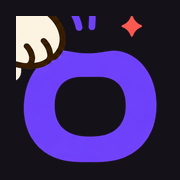
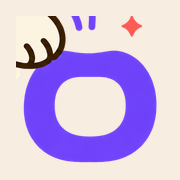
파비콘 바탕을 크림으로 — 다크 탭바에서 묻히던 것
앱 바탕(`--bg` = `#151118`)으로 채워뒀는데, **다크 모드 탭바(`#202124`)에서
아이콘이 탭바에 묻혔다.** 탭이 여러 개 열린 화면에서 우리를 못 찾는다 —
파비콘이 하는 일이 그것 하나인데.

## 여섯을 대봤다

밝은 탭(`#f2f2f2`)과 어두운 탭(`#202124`) 양쪽에 96·32·16px 로 얹었다.

  현재(--bg)   어두운 탭에서 묻힌다. 밝은 탭에서는 무겁다
  크림         ✅ 둘 다에서 또렷하다. O 의 속이 채워져 고리가 깨끗하다
  흰색         되지만 차다. 크림 발바닥이 조금 씻긴다
  로고 보라    O 가 바탕에 잠긴다 — 못 쓴다
  로고 분홍    보라와 부딪힌다
  짙은 갈색    현재와 같은 문제

## 로고의 크림과 똑같이 두지 않았다

글자·발바닥의 크림은 `#fdf5e2` · `#fef5e2` 다. 바탕을 그 값으로 두면 **발바닥이 바탕에
잠겨 짙은 외곽선만 남는다.** 한 단 낮춘 `#f7ede0` 으로 실낱만큼 떨어뜨린다.

미리보기 카드(`og.jpg`)의 바탕은 `--bg` 그대로다 — 그건 앱 화면을 닮아야 하는 물건이고,
탭바 옆에 놓이지 않는다. 그래서 스크립트에서 `BG` 와 `ICON_BG` 를 갈랐다.

## 문서

`index.html` 과 `design/README.md` 가 "바탕(`--bg`)을 채운다" 고 적어놨었다.
값이 바뀌었으므로 **그 문장은 그대로 두면 거짓말이 된다** — 근거까지 같이 고쳤다.

check ✅ · test ✅ 523 passed (20 files) · build ✅ · check:bundle ✅ 94%

diff --git a/index.html b/index.html
@@ -51,8 +51,9 @@
       `TONE` 네 글자가 4px 씩 나눠 갖는다.
 
       ⚠ **배경을 투명하게 두지 마라.** 발끝이 크림색이라 밝은 탭 배경에서 사라진다.
-      바탕(`--bg`)을 채워 어느 탭에서도 같은 대비를 갖게 한다.
-      만드는 법은 `design/README.md`.
+      그렇다고 앱 바탕(`--bg`)으로 채우지도 않는다 — **다크 모드 탭바에 아이콘이 묻힌다.**
+      크림으로 채워 밝은 탭·어두운 탭 양쪽에서 도드라지게 한다.
+      만드는 법과 그 값을 고른 근거는 `design/README.md`.
     -->
     <link rel="icon" type="image/png" sizes="48x48" href="/favicon.png" />
     <link rel="apple-touch-icon" href="/apple-touch-icon.png" />

diff --git a/design/README.md b/design/README.md
@@ -45,7 +45,14 @@ node scripts/make-brand-assets.mjs
 뭉갠다 — `TONE` 네 글자가 4px 씩 나눠 갖는다.
 
 ⚠ **아이콘 배경을 투명하게 두지 마라.** 발끝이 크림색이라 밝은 탭 배경에서 사라진다.
-바탕(`--bg` = `#151118`)을 채워 어느 탭에서도 같은 대비를 갖게 한다.
+그렇다고 앱 바탕(`--bg` = `#151118`)으로 채우지도 않는다 — **다크 모드 탭바에 묻힌다.**
+
+크림(`#f7ede0`)으로 채운다. 밝은 탭(`#f2f2f2`)·어두운 탭(`#202124`) 양쪽에 얹어
+96·32·16px 로 여섯 가지를 대봤고 크림이 둘 다에서 가장 잘 읽혔다 —
+보라·분홍은 `O` 가 바탕에 잠겨서 못 쓴다.
+
+로고 글자·발바닥의 크림(`#fdf5e2` · `#fef5e2`)과 **똑같이 두지 않는다.** 같으면 발바닥이
+바탕에 잠겨 짙은 외곽선만 남는다. 한 단 낮춰 실낱만큼 떨어뜨린다.
 
 **카드는 JPEG 다.** 알파가 필요 없고, PNG 로 뽑으면 214 KiB 인데 JPEG 은 36 KiB 다.
 `og.jpg` 와 `apple-touch-icon.png` 는 참가자가 안 받는 자산이라
